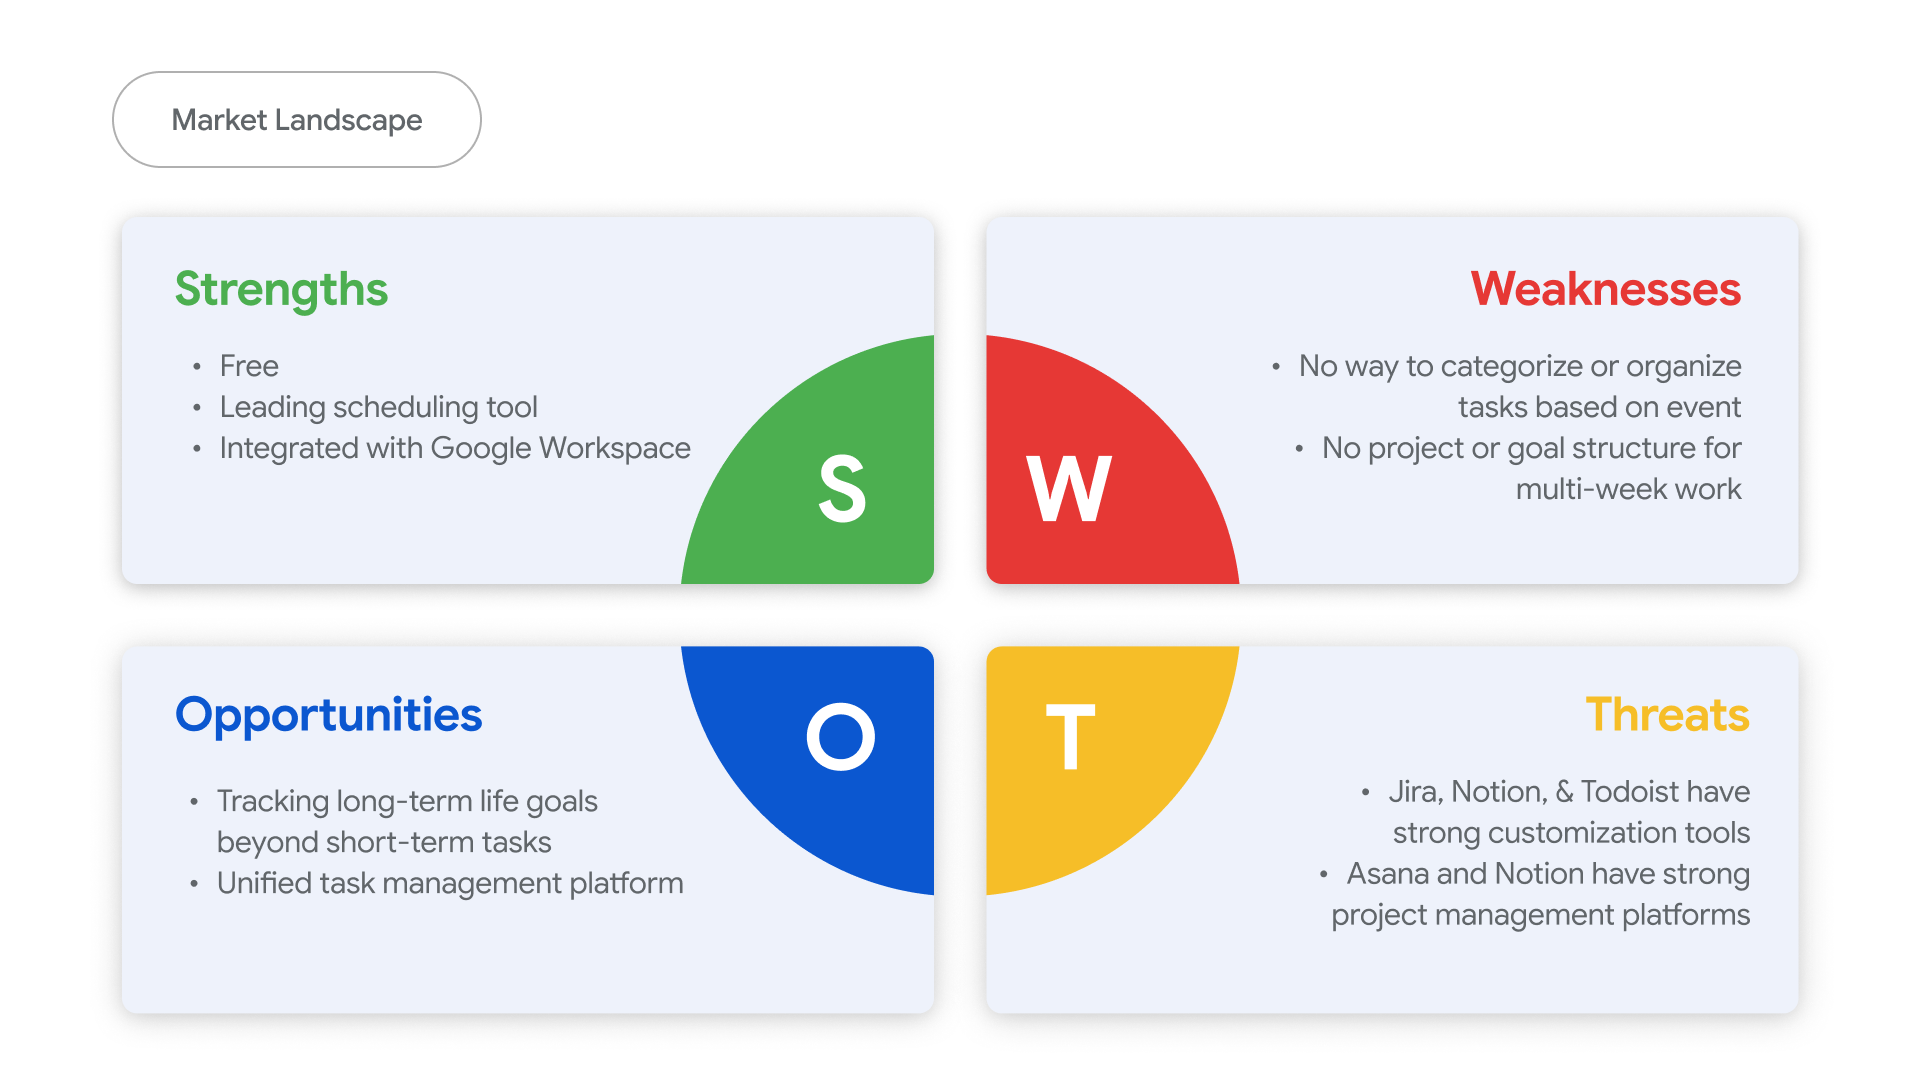
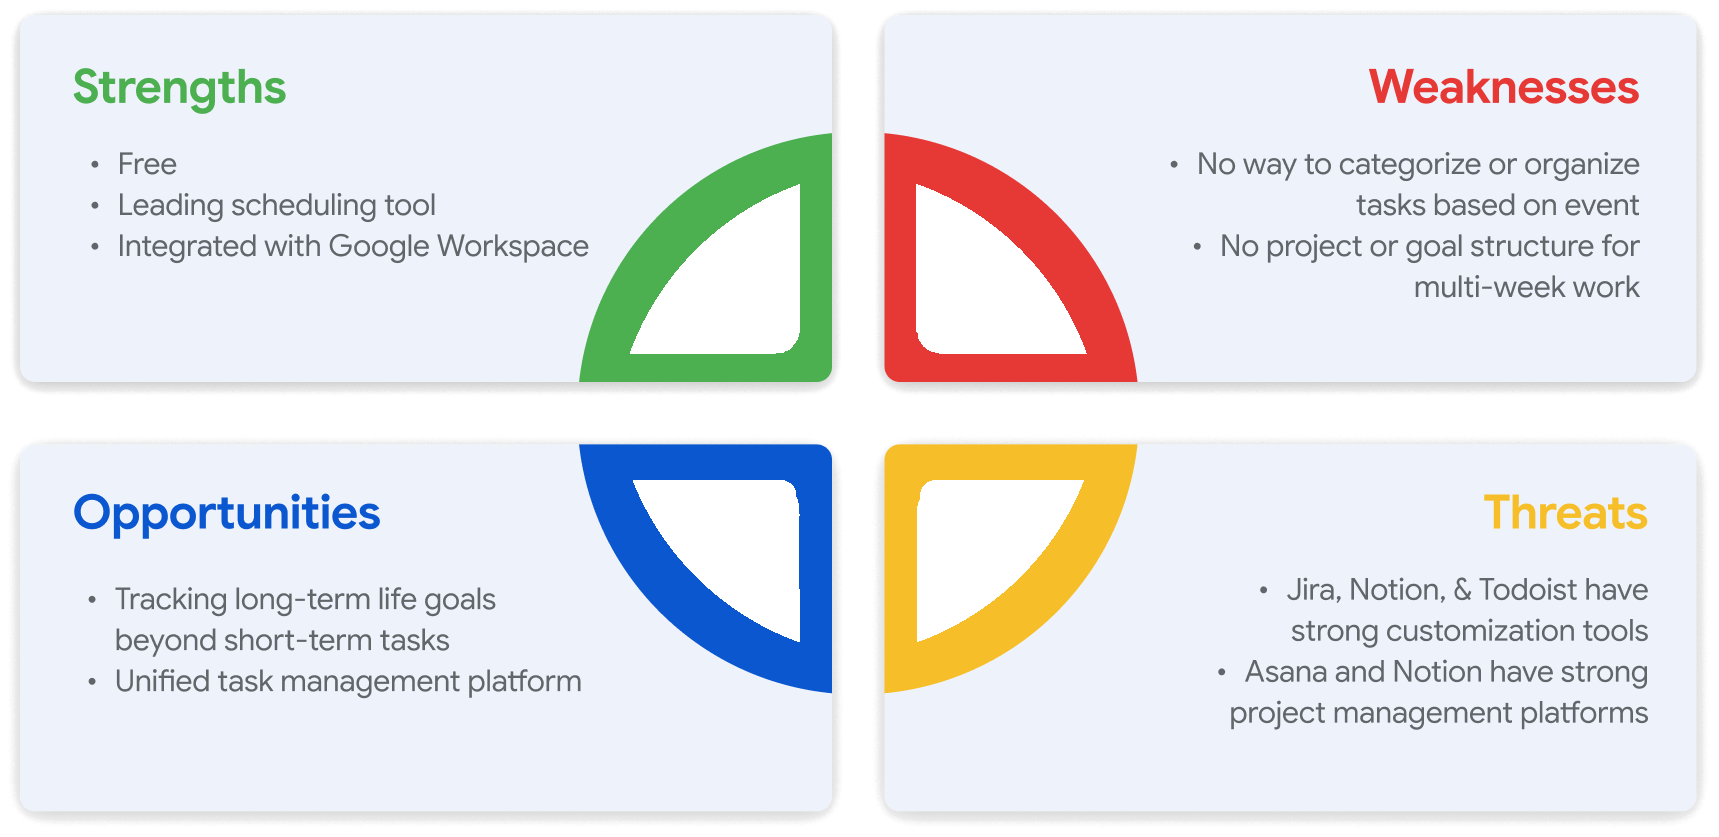
Remove SWOT frame and Market Landscape pill from image
Key out the outer white card chrome so the four SWOT cards float
with their own shadows on the page background, and drop the CSS
white wrapper around that figure.

diff --git a/case-studies/current/index.html b/case-studies/current/index.html
@@ -443,13 +443,13 @@
             structure. I broke this down further with a SWOT to confirm where the real opportunity was.
           </p>
 
-          <figure class="case-market-table">
+          <figure class="case-market-table case-market-table--flush">
             <img
               class="case-market-table__img"
               src="../../assets/images/current/swot-analysis.png"
               alt="SWOT analysis of Google Calendar highlighting strengths, weaknesses, opportunities, and threats."
-              width="1920"
-              height="1080"
+              width="1719"
+              height="837"
               loading="lazy"
               decoding="async"
             >

diff --git a/css/main.css b/css/main.css
@@ -4316,6 +4316,16 @@ p {
   margin: 0 0 clamp(1.5rem, 3.5vw, 2.25rem);
 }
 
+/* SWOT sits bare on the page background (image already has card shadows) */
+.case-market-table--flush {
+  padding: 0;
+  border: none;
+  border-radius: 0;
+  background: transparent;
+  box-shadow: none;
+  overflow: visible;
+}
+
 #process .case-process-competitive .case-body--process + .case-competitive__logos {
   margin-top: 1.75rem;
 }
